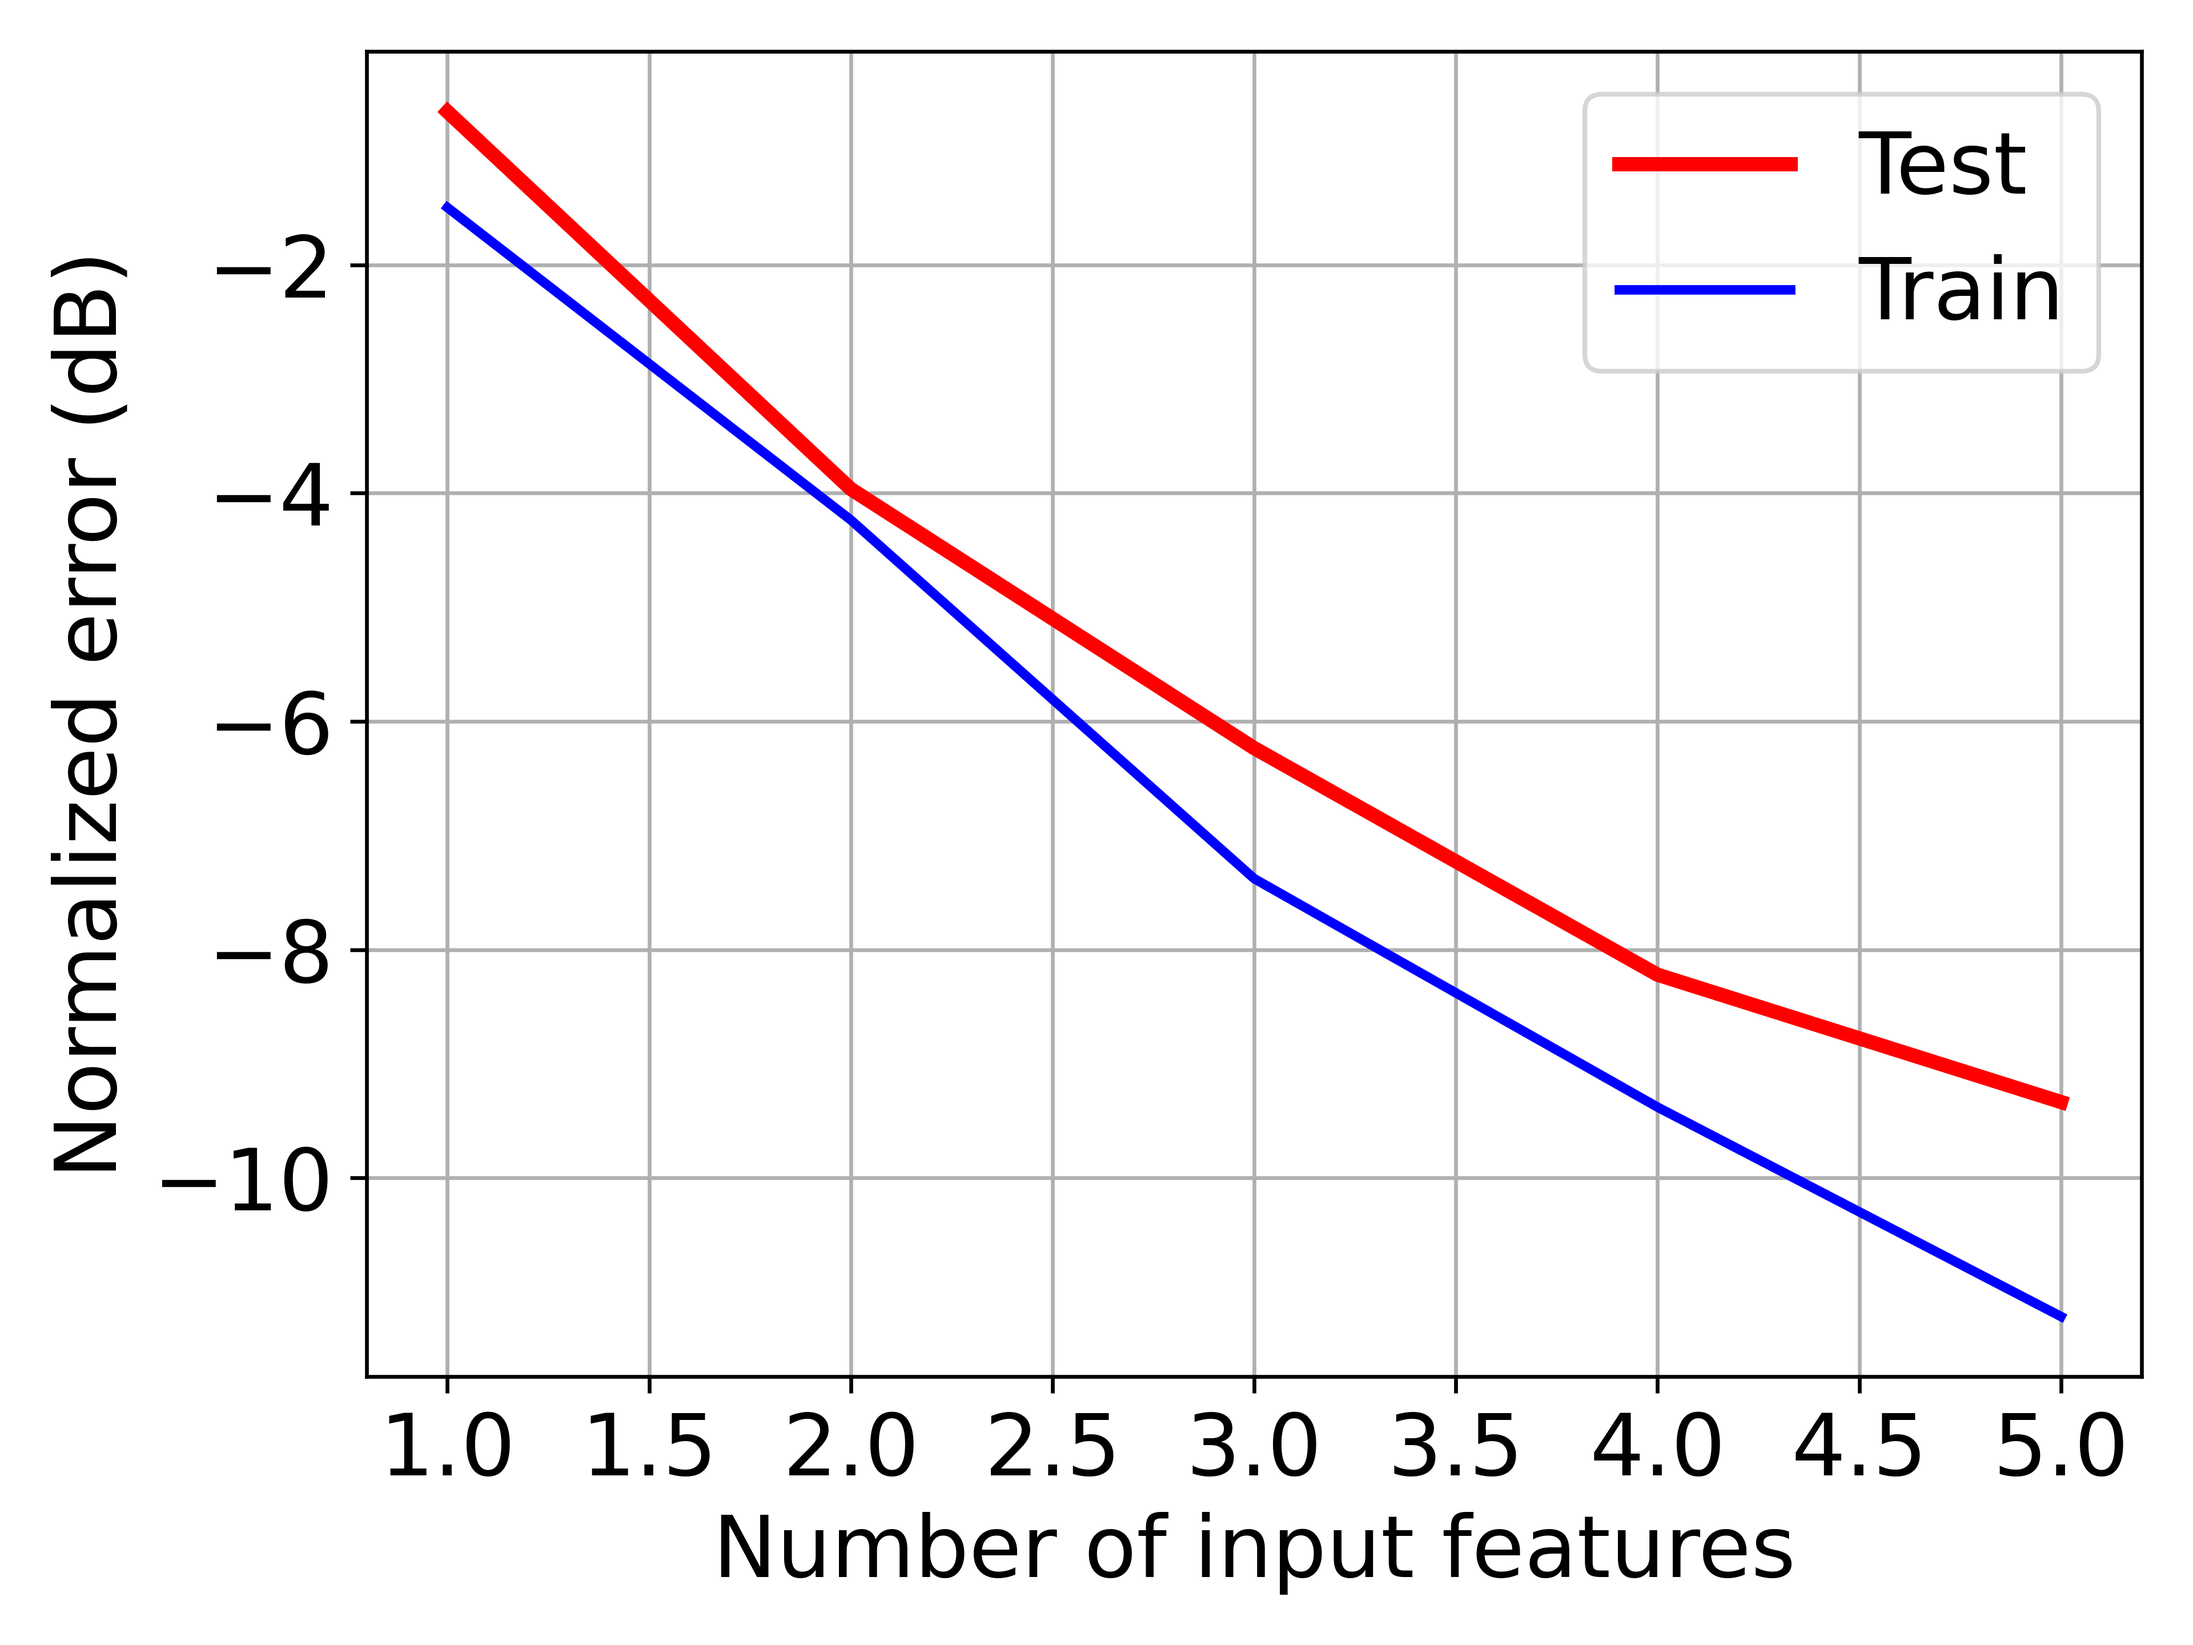
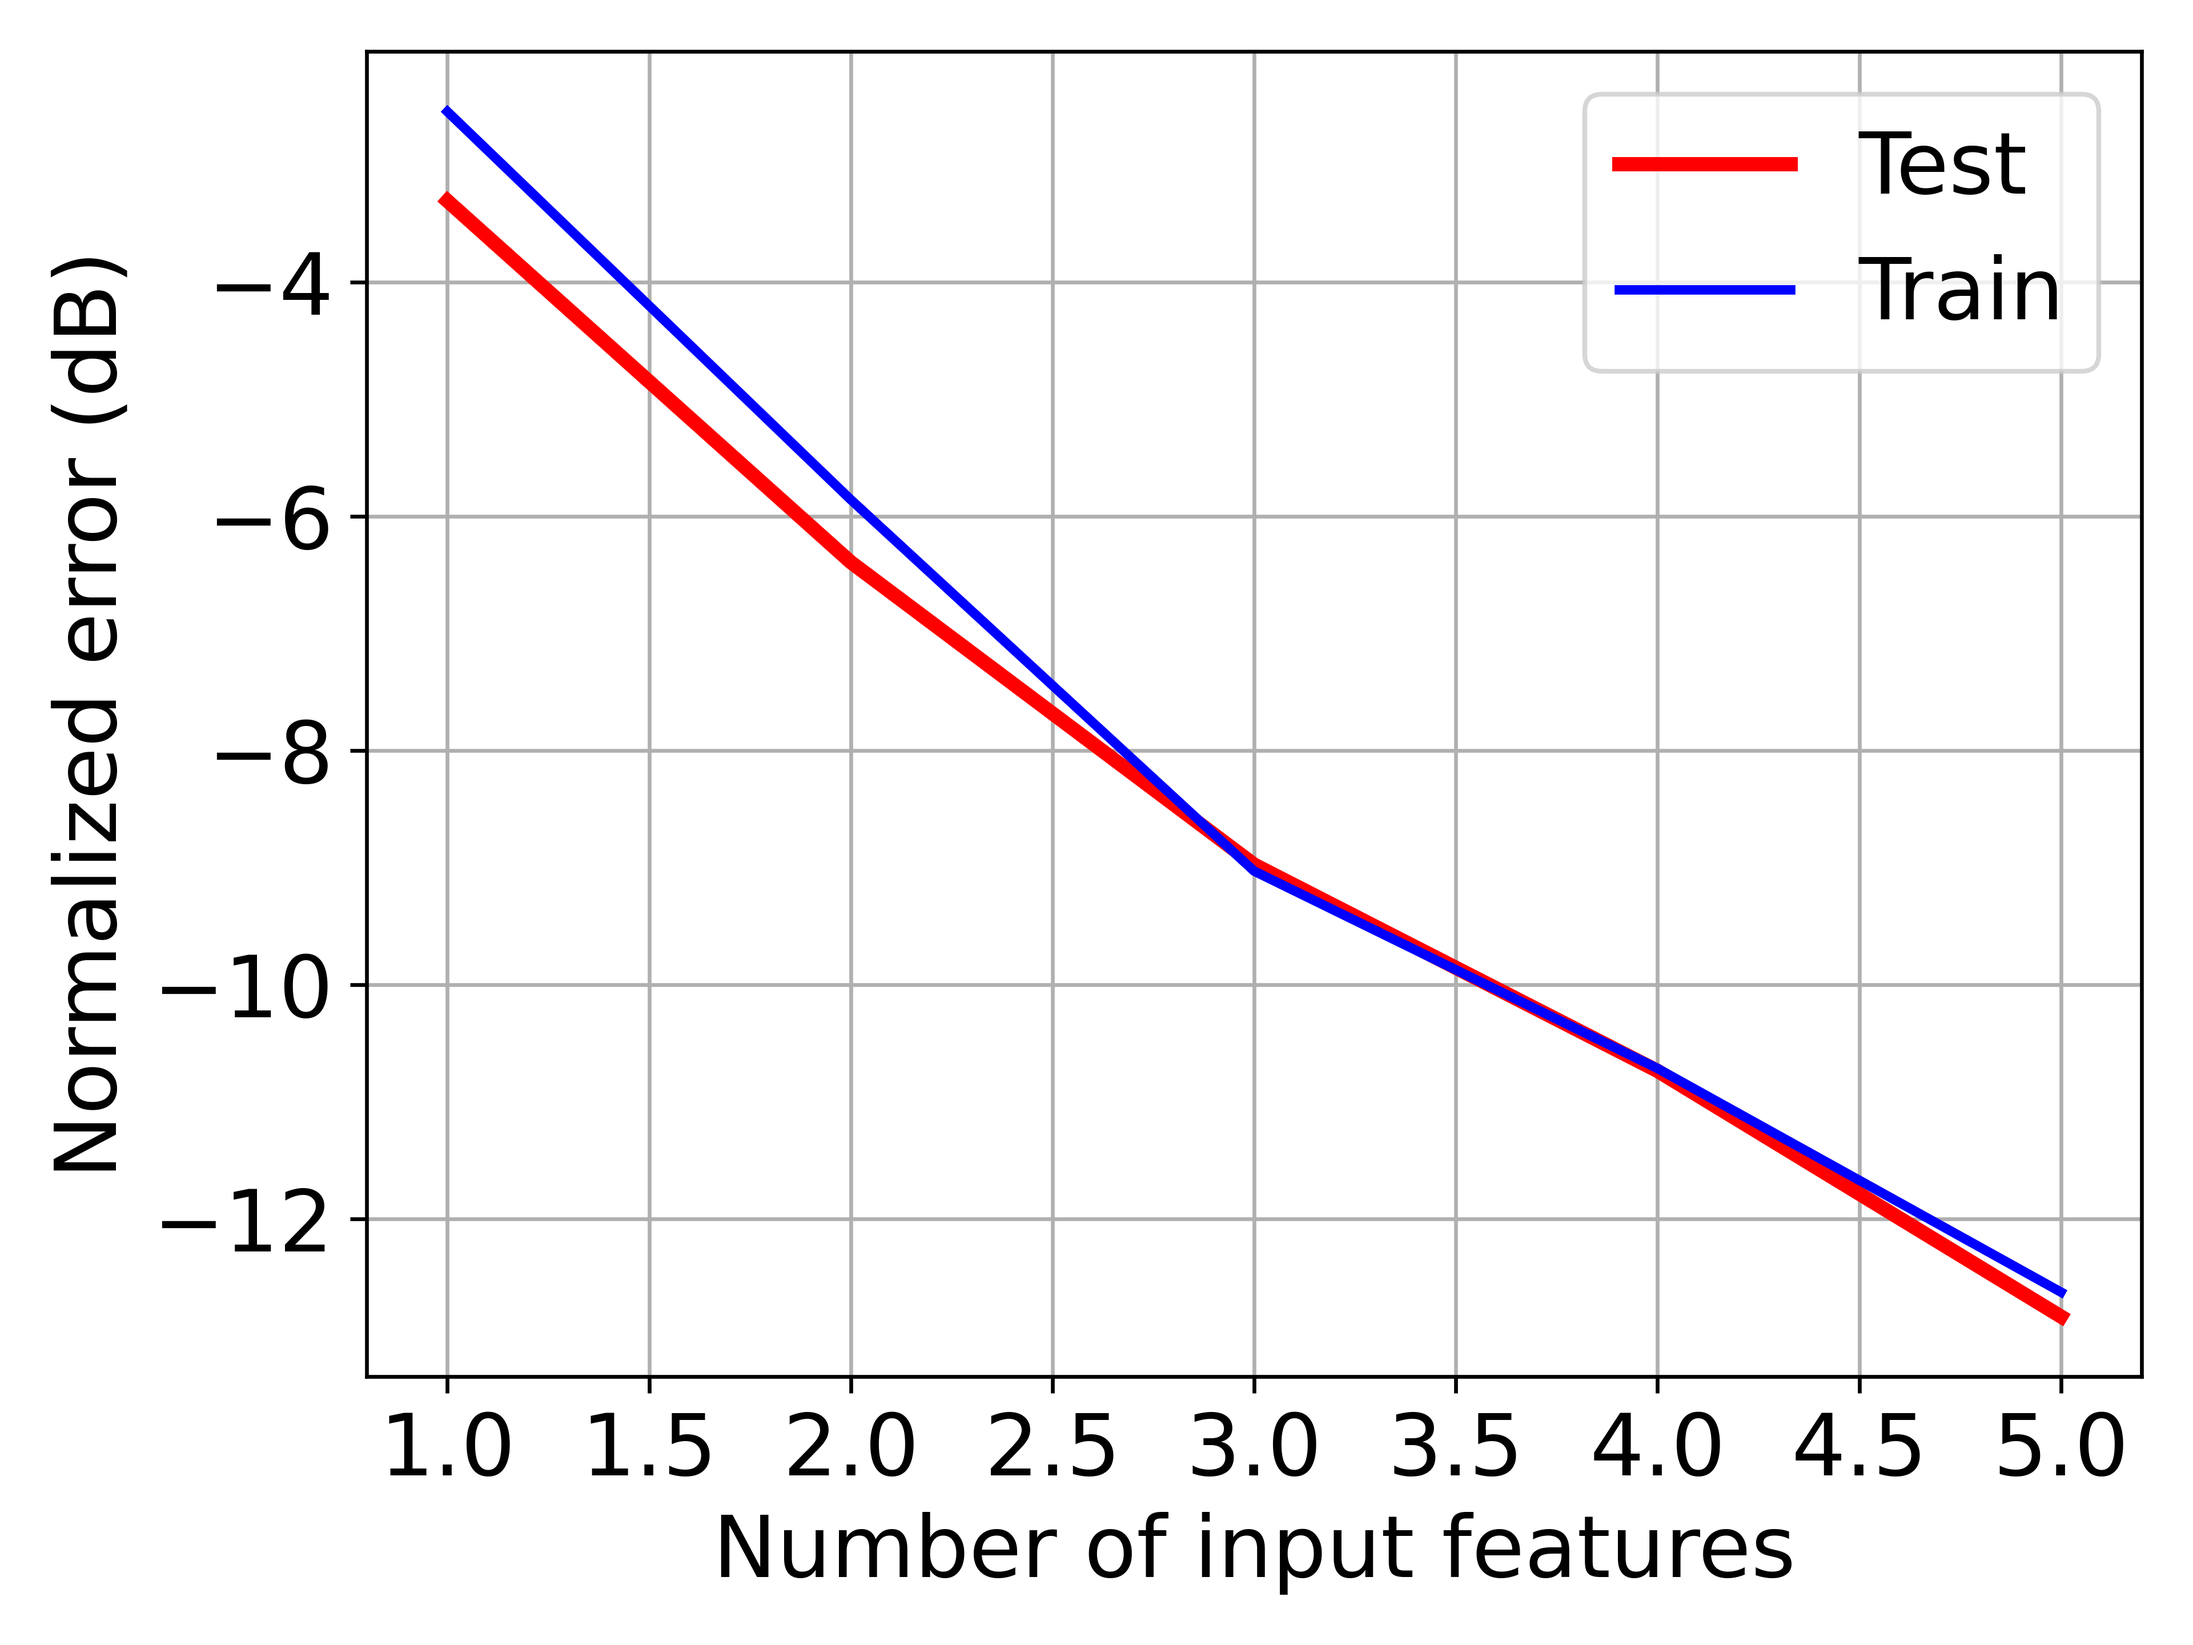
Minor

diff --git a/MLP.py b/MLP.py
@@ -1,0 +1,95 @@
+import numpy as np
+import tensorflow as tf
+from MyFunctions import *
+import json
+import pickle
+
+def MLP(X_train, X_test, T_train, T_test, data):
+    """Back propagation based on the architecture HNF has constructed"""
+    train_accuracy_lists = []
+    train_NME_lists = []
+    test_accuracy_lists = []
+    test_NME_lists = []
+    m = X_train.shape[1]
+    P = X_train.shape[0]
+    Q= T_train.shape[0]
+    data = data
+    learning_rate = 10**(-6)
+    Epoch_num = 100
+    batchSize = 32
+    Layer_Num = 1
+
+    iteration_num = round(m/batchSize)
+
+    _logger.info("Read parameters by HNF")
+    parameters_path = "./parameters/"
+
+    ######################################################################################
+    ####################        Tensorflow v2       ######################################
+    ######################################################################################
+    class MyModel(tf.keras.Model):
+        def __init__(self):
+            super(MyModel, self).__init__()
+            for i in range(1, Layer_Num + 1):
+                ni = X_train.shape[0] + 1
+                mi = 500
+                setattr(self, "W"+str(i), tf.Variable(initial_value=tf.random.normal((ni, mi))), name="W"+str(i), dtype=tf.float32))
+                # setattr(self, "W"+str(i), tf.Variable(tf.constant(value=outputs["W"+str(i)]), name="W"+str(i), dtype=tf.float32))
+                self.O = tf.Variable(tf.constant(value=outputs["O"]), name="O", dtype=tf.float32)
+
+        def call(self, inputs):
+            Y=inputs
+            Y=tf.concat([Y, tf.ones([1, Y.shape[1]], tf.float32)], 0)
+            for i in range(1, Layer_Num + 1):
+                Z = tf.matmul(getattr(self, "W"+str(i)), Y)
+                Y = tf.keras.activations.relu(Z)
+                Y=tf.concat([Y, tf.ones([1, Y.shape[1]], tf.float32)], 0)
+            T_hat=tf.matmul(self.O, tf.cast(Y, tf.float32)) 
+            return T_hat, Y
+        
+    my_model = MyModel()
+    optimizer = tf.keras.optimizers.Adam(learning_rate=learning_rate)
+
+    @tf.function
+    def get_grad_and_loss(inputs, labels):
+        with tf.GradientTape() as tape:
+            T_hat, _=my_model(inputs)
+            total_loss = compute_cost(T_hat, labels)
+
+        gradients = tape.gradient(total_loss, my_model.trainable_variables)
+        return gradients
+
+    train_accuracy_lists = []
+    test_accuracy_lists = []
+
+    for epoch in range(1, Epoch_num+1):
+        shuffled_X, shuffled_T = shuffle_data(X_train, T_train)
+
+        for i in range(0, iteration_num):
+            X_batch, T_batch = get_batch(shuffled_X, shuffled_T, i, batchSize)
+            gradients = get_grad_and_loss(X_batch, T_batch)
+            optimizer.apply_gradients(zip(gradients, my_model.trainable_variables))
+
+        if epoch % (Epoch_num/10) == 0:    
+            T_hat, _=my_model(X_train)
+            T_hat_test, _=my_model(X_test)
+            train_accuracy = calculate_accuracy(T_hat.numpy(), T_train)
+            test_accuracy = calculate_accuracy(T_hat_test.numpy(), T_test)
+            train_accuracy_lists.append(train_accuracy)
+            test_accuracy_lists.append(test_accuracy)
+            print("Train Accuracy: {:.3f}".format(train_accuracy)," Test Accuracy: {:.3f}".format(test_accuracy))
+
+    t_hat, _ = my_model(X_train)
+    t_hat_test, _ = my_model(X_test)
+    # outputs["Feat_train"]=Y_train[:-1,:]
+    # outputs["Feat_test"]=Y_test[:-1,:]
+    # outputs["T_train"]=T_train
+    # outputs["T_test"]=T_test
+    # outputs["O"]=my_model.O.numpy()
+
+    # save_dic(outputs, parameters_path, data, "weights_MLP")
+
+    return compute_nme(T_train,t_hat), compute_nme(T_test,t_hat_test), calculate_accuracy(T_train,t_hat), calculate_accuracy(T_test,t_hat_test)
+
+
+        

diff --git a/NMP.py b/NMP.py
@@ -3,6 +3,7 @@
 import logging 
 import argparse
 from SSFN import SSFN
+from MLP import MLP
 from MyFunctions import *
 from load_dataset import *
 import multiprocessing
@@ -313,7 +314,8 @@ def Err_vs_feat(args):
             else:
                 X_tr = X_train[[i],:]
                 X_ts = X_test[[i],:]
-            train_error, test_error, train_acc, test_acc = SSFN( X_tr, X_ts, T_train, T_test, SSFN_hparameters)
+            # train_error, test_error, train_acc, test_acc = SSFN( X_tr, X_ts, T_train, T_test, SSFN_hparameters)
+            train_error, test_error, train_acc, test_acc = MLP( X_tr, X_ts, T_train, T_test, data)
             train_error_array = np.append(train_error_array, train_error)
             test_error_array = np.append(test_error_array, test_error)
             train_acc_array = np.append(train_acc_array, train_acc)
@@ -339,7 +341,7 @@ def Err_vs_feat(args):
         sorted_ind = np.append(sorted_ind, best_ind)
         search_ind = np.delete(search_ind, i)
     
-        # print(sorted_ind)
+        print(sorted_ind)
         # print(str(round(len(sorted_ind)/P * 100,2))+"%")
 
     # MyFPSR = FPSR([0, 1, 2],sorted_ind[0:3]) 

diff --git a/main2.py b/main2.py
@@ -56,12 +56,12 @@ def main():
 
     S = [0, 1, 2, 3, 4] # set of true relevant features
     sweep_eta = 0.01 * np.arange(1,11)
-    sweep_J = np.arange(50, 1050, 50)
+    sweep_J = 600 #np.arange(50, 1050, 50)
 
     NMP_avg_FPSR = np.array([])
     NMP_avg_FNSR = np.array([])    
 
-    MC_Num=5
+    MC_Num=10
 
     for J in sweep_J:
         args.eta = 0.06
